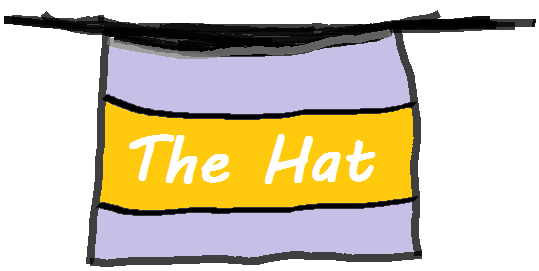
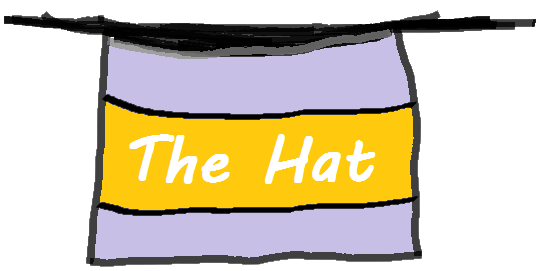
core functionality almost done, added landing page, changed hat image to png, starting to add animation to components

diff --git a/src/views/LandingView.vue b/src/views/LandingView.vue
@@ -1,0 +1,45 @@
+<template>
+    <div>
+    <h1>Slow Guys Book Club</h1>
+    <h3>Welcome to the Webapp that helps you decide what book to read next!</h3>
+    <p>Add your favorite books to the magic hat or let fate choose your next literary adventure. Embrace the magic of the hat and discover your next great read!</p>
+    <img class="addHat" alt="The Hat" src="../assets/theHat.png" />
+    </div>
+</template>
+<script>
+
+
+</script>
+
+<style scoped>
+.addHat {
+animation: wobble 1.5s infinite;
+padding-top: 200px;
+width: 390px;
+}
+
+@keyframes wobble {
+  0%,
+  100% {
+    transform: translateX(0%);
+    transform-origin: 50% 50%;
+  }
+  15% {
+    transform: translateX(-30px) rotate(6deg);
+  }
+  30% {
+    transform: translateX(15px) rotate(-6deg);
+  }
+  45% {
+    transform: translateX(-15px) rotate(3.6deg);
+  }
+  60% {
+    transform: translateX(9px) rotate(-2.4deg);
+  }
+  75% {
+    transform: translateX(-6px) rotate(1.2deg);
+  }
+}
+
+
+</style>

diff --git a/src/router/index.js b/src/router/index.js
@@ -1,8 +1,14 @@
-import { createRouter, createWebHashHistory } from 'vue-router'
-import HomeView from '../views/HomeView.vue'
+import { createRouter, createWebHashHistory } from 'vue-router';
+import HomeView from '../views/HomeView.vue';
 import SearchBook from '@/components/SearchBook.vue'; 
+import LandingView from '../views/LandingView.vue';
 
 const routes = [
+  {
+    path: '/',
+    name: 'landing',
+    component: LandingView
+  },
   {
     path: '/pick',
     name: 'pick',

diff --git a/src/components/PickBook.vue b/src/components/PickBook.vue
@@ -1,6 +1,5 @@
 <template>
   <div class="container">
-    <h1>Slow Guys Book Club</h1>
     <h2>Book selector</h2>
     <button @click="pickRandomBook">Pick a book</button>
     <!-- <button @click="deleteBook" v-if="book">Delete book</button> -->
